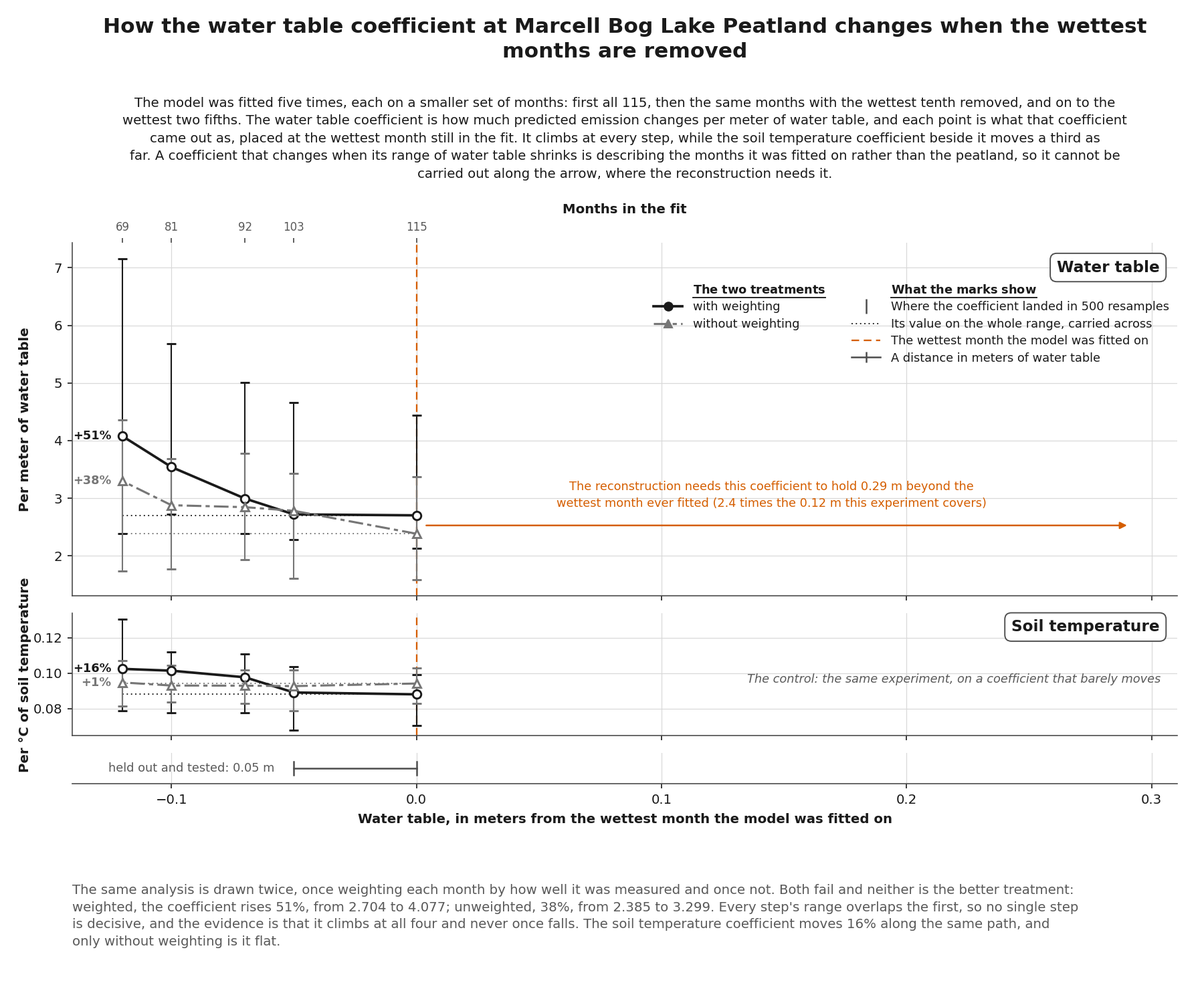
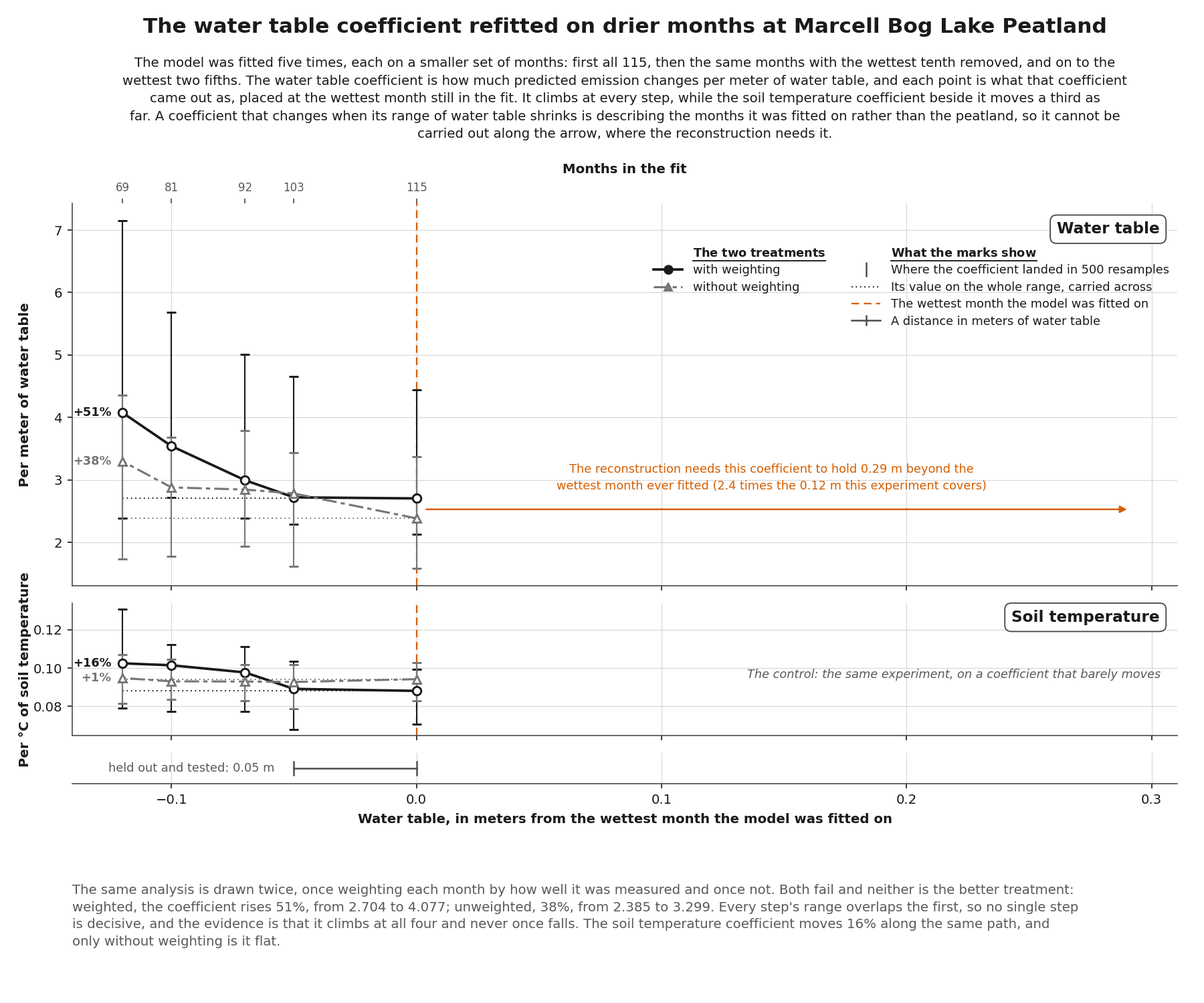
Key every mark and settle the availability palette

diff --git a/src/study/figures.py b/src/study/figures.py
@@ -1064,8 +1064,8 @@ def measurements_used(panels: dict[str, pd.DataFrame]) -> Figure:
 
 
 STABILITY_TEXT = ps.FigureText(
-    title=("How the water table coefficient at Marcell Bog Lake Peatland changes "
-           "when the wettest months are removed"),
+    title=("The water table coefficient refitted on drier months at "
+           "Marcell Bog Lake Peatland"),
     subtitle=(
         "The model was fitted five times, each on a smaller set of months: first "
         "all 115, then the same months with the wettest tenth removed, and on to "
@@ -1345,7 +1345,7 @@ def coefficient_stability(paths: dict[str, pd.DataFrame], required: float,
 # --------------------------------------------------------------------------
 
 AVAILABILITY_TEXT = ps.FigureText(
-    title=("Which months each measurement and each part of the study cover at "
+    title=("Which months each measurement and each analysis cover at "
            "Marcell Bog Lake Peatland"),
     subtitle=(
         "Each row in the upper block is one measurement, and the bar covers the "
@@ -1356,24 +1356,24 @@ AVAILABILITY_TEXT = ps.FigureText(
     ),
     description=(
         "Air temperature and precipitation stop at the end of 2019, which ends the "
-        "fitting window and discards 25 months of methane the tower recorded and "
-        "the study could not use. The model is projected back over the span where "
-        "the measurements exist and the flux does not. Forecasting cannot begin "
-        "until "
-        "48 months of flux have accumulated, which took 62 calendar months for "
-        "methane because of the gaps in 2013 and 2014, and it ends in 2020 where "
-        "the models needing a measurement run out, though the benchmarks alone "
-        "reach 2021 and 2024. The two hollow marks are decisions rather than "
-        "absences: the water table is set aside from January 2020 because the "
-        "gauge changed, and two months of 2019 on evidence of instrument error."
+        "months the model could learn from and discards 25 months of methane the "
+        "tower recorded. Forecasts cannot be checked until 48 months of flux have "
+        "accumulated, which took 62 calendar months for methane because of the "
+        "gaps in 2013 and 2014, and the check ends in 2020 where the models that "
+        "use a measurement run out, though the seasonal benchmarks reach 2021 and "
+        "2024. Blue marks the range the model was fitted on, as it does across "
+        "this set. The two hollow marks are decisions rather than absences: the "
+        "water table is set aside from January 2020 for a gauge change, and two "
+        "months of 2019 on evidence of instrument error."
     ),
 )
 
-BLOCK_HEADINGS = ("What was measured, as monthly means", "Fitted and projected",
-                  "Tested forecasts on")
-PRESENT_LABEL = "months measured"
+BLOCK_HEADINGS = ("What was measured, as monthly means", "Months the model used",
+                  "Months the forecasts were checked on")
+PRESENT_LABEL = "months covered"
 MISSING_LABEL = "a month missing"
 ASIDE_LABEL = "set aside by the study"
+FITTED_RANGE_LABEL = "the range the model was fitted on"
 TRAINING_LABEL = "48 months of training first"
 
 #: Bar geometry in row units. The bars are the figure, so they are heavy; the notch
@@ -1462,20 +1462,26 @@ def _draw_availability_row(ax, y: float, row: dict) -> None:
 
 
 #: The span that defines what "inside the fitted range" means everywhere else in
-#: the study, drawn in the hue that carries it. The reconstruction beside it stays
-#: neutral: 117 of its 230 months lie outside that range and 113 inside, so one
-#: hue across the whole bar would assert a verdict the study measured as mixed.
-WINDOW_FILL = "#767676"
+#: the study, drawn in the hue that carries it. The span beside it stays neutral:
+#: 117 of its 230 months lie outside that range and 113 inside, so one hue across
+#: the whole bar would assert a verdict the study measured as mixed. Every other
+#: bar on the panel takes the same neutral, since a second gray would draw a
+#: distinction the blocks already carry by position.
 
 
 def _draw_window_row(ax, y: float, row: dict) -> None:
     """A window: the months it used, and any lead spent on training first."""
+    if row.get("note"):
+        # The qualifier that would not fit the gutter, set in the clear ground
+        # beside the bar it belongs to.
+        ax.text(_position(row["last"]) + 0.5, y, row["note"], ha="left", va="center",
+                fontsize=ps.ANNOTATION_SIZE, style="italic", color=ps.MUTED, zorder=4)
     if row.get("lead"):
         first, last = row["lead"]
         ax.plot([_position(first), _position(last)], [y, y], color=ps.MUTED,
                 linewidth=1.1, zorder=3)
     _draw_bar(ax, y, row["first"], row["last"],
-              facecolor=ps.INSIDE if row.get("support") else WINDOW_FILL,
+              facecolor=ps.INSIDE if row.get("support") else ps.MEASURED,
               edgecolor="none", zorder=3)
 
 
@@ -1489,7 +1495,7 @@ HEADING_OFFSET = 1.15
 #: Room at the left for the row names and at the top for the key, in pixels. Taken
 #: out of the drawing rectangle rather than out of the canvas, so the title and the
 #: description stay centered on the page rather than on the bars.
-NAME_GUTTER_PX = 300
+NAME_GUTTER_PX = 330
 KEY_BAND_PX = 40
 
 
@@ -1575,6 +1581,7 @@ def covariate_availability(rows: list[dict],
         (Line2D([], [], color=ps.MEASURED, linestyle="none", marker="|", markersize=10,
                 markeredgewidth=1.4), MISSING_LABEL),
         (Patch(facecolor="white", edgecolor=ps.OUTSIDE, linewidth=1.2), ASIDE_LABEL),
+        (Patch(facecolor=ps.INSIDE, edgecolor="none"), FITTED_RANGE_LABEL),
     ]
     ps.legend(ax, handles=[h for h, _ in entries], labels=[label for _, label in entries],
               loc="lower right", bbox_to_anchor=(1.0, 1.005), ncol=len(entries),

diff --git a/tests/test_availability_figure.py b/tests/test_availability_figure.py
@@ -28,14 +28,15 @@ ASIDE = {"Water table": (
 )}
 
 DREW_ON = [
-    {"name": "Fitted the model", "first": pd.Period("2009-04", freq="M"),
+    {"name": "Learned from", "first": pd.Period("2009-04", freq="M"),
      "last": pd.Period("2019-12", freq="M"), "months": 115, "lead": None,
      "support": True},
-    {"name": "Projected it back", "first": pd.Period("1990-01", freq="M"),
-     "last": pd.Period("2009-03", freq="M"), "months": 230, "lead": None},
+    {"name": "Estimated backward", "first": pd.Period("1990-01", freq="M"),
+     "last": pd.Period("2009-03", freq="M"), "months": 230, "lead": None,
+     "note": "(no flux to check against)"},
 ]
 SCORED = [
-    {"name": "Methane", "first": pd.Period("2014-06", freq="M"),
+    {"name": "Methane forecasts", "first": pd.Period("2014-06", freq="M"),
      "last": pd.Period("2020-12", freq="M"), "months": 71,
      "lead": (pd.Period("2009-04", freq="M"), pd.Period("2014-06", freq="M"))},
 ]
@@ -161,10 +162,29 @@ def test_the_reason_a_month_was_set_aside_is_written_beside_it():
     ps.plt.close(fig)
 
 
-def test_the_key_carries_three_marks_and_no_reasons():
+def test_the_key_covers_every_mark_on_the_panel_and_carries_no_reasons():
+    """Both blocks are keyed from one place: the lower block holds two fills and
+    one of them is a hue that means something across the whole set."""
     fig = figure()
     labels = [text.get_text() for text in fig.axes[0].get_legend().get_texts()]
-    assert labels == [figures.PRESENT_LABEL, figures.MISSING_LABEL, figures.ASIDE_LABEL]
+    assert labels == [figures.PRESENT_LABEL, figures.MISSING_LABEL,
+                      figures.ASIDE_LABEL, figures.FITTED_RANGE_LABEL]
+    ps.plt.close(fig)
+
+
+def test_the_blue_convention_is_stated_somewhere_on_the_figure():
+    """A reader meeting this figure first has no other way to know what it means."""
+    assert "Blue marks the range the model was fitted on" in \
+        figures.AVAILABILITY_TEXT.description
+
+
+def test_one_neutral_serves_every_bar_that_is_not_the_fitted_range():
+    """Two grays would draw a distinction the blocks already carry by position."""
+    from matplotlib.colors import to_rgb
+
+    fig = figure()
+    fills = {p.get_facecolor()[:3] for p in fig.axes[0].patches}
+    assert fills == {to_rgb(ps.MEASURED), to_rgb(ps.INSIDE), (1.0, 1.0, 1.0)}
     ps.plt.close(fig)
 
 
@@ -222,7 +242,7 @@ def test_the_description_says_what_the_window_cost_and_not_only_its_cause():
 
 def test_the_description_names_the_benchmark_tail_without_drawing_it():
     """A fourth mark for a clause is not worth it."""
-    assert "benchmarks alone reach" in figures.AVAILABILITY_TEXT.description
+    assert "seasonal benchmarks reach 2021 and 2024" in figures.AVAILABILITY_TEXT.description
 
 
 def test_the_subtitle_says_the_windows_were_chosen():
@@ -253,8 +273,17 @@ def test_no_counts_are_drawn_beside_the_bars():
 def test_no_term_appears_as_a_row_name_without_being_explained():
     """Reconstruction, fitting window and scored over were all internal."""
     said = " ".join([row["name"] for row in WINDOWS] + list(figures.BLOCK_HEADINGS)).lower()
-    for term in ("reconstruction", "fitting window", "scored"):
+    for term in ("reconstruction", "fitting window", "scored", "projected"):
         assert term not in said
+
+
+def test_a_qualifier_too_long_for_the_gutter_is_set_beside_its_own_bar():
+    """Row names were measured against the gutter rather than assumed; the one
+    that did not fit sits in the clear ground to the right of its bar."""
+    fig = figure()
+    said = [note.get_text() for note in fig.axes[0].texts]
+    assert "(no flux to check against)" in said
+    ps.plt.close(fig)
 
 
 def test_the_title_names_the_site():

diff --git a/scripts/make_figures.py b/scripts/make_figures.py
@@ -185,10 +185,12 @@ def main() -> None:
         "Soil temperature at 10 cm (°F)": cov["soil_temp_f"],
         "Air temperature (°F)": cov["atm_temp_f"],
         "Precipitation (inches)": cov["precip_in"],
-        "Water table (m above sea level)": cov[features.WATER_TABLE],
+        # Elevation, not depth: the values run 413.07 to 413.75 m above sea level,
+        # and a peatland reader meeting "water table" expects depth below surface.
+        "Water table elevation (m)": cov[features.WATER_TABLE],
     }
     recorded = cov[features.WATER_TABLE].dropna().index
-    set_aside = {"Water table (m above sea level)": (
+    set_aside = {"Water table elevation (m)": (
         (pd.PeriodIndex([m for m in recorded if m in windows.WATER_TABLE_ARTIFACTS],
                         freq="M"), "instrument error"),
         (pd.PeriodIndex([m for m in recorded if m >= covariates.WATER_TABLE_DATUM_BREAK],
@@ -197,12 +199,12 @@ def main() -> None:
     measured_rows = figures.availability_rows(measured, set_aside)
 
     drew_on = [
-        {"name": "Fitted the model", "first": built["fit"].min(),
+        {"name": "Learned from", "first": built["fit"].min(),
          "last": built["fit"].max(), "months": len(built["fit"]), "lead": None,
          "support": True},
-        {"name": "Projected it back", "first": built["reconstruction"].min(),
+        {"name": "Estimated backward", "first": built["reconstruction"].min(),
          "last": built["reconstruction"].max(), "months": len(built["reconstruction"]),
-         "lead": None},
+         "lead": None, "note": "(no flux to check against)"},
     ]
     scored = []
     for key, gas, _ in figures.GAS_PANEL:
@@ -213,7 +215,7 @@ def main() -> None:
         flux = measured[
             "Carbon dioxide ($\\mu$mol m$^{-2}$ s$^{-1}$)" if key == "carbon_dioxide"
             else "Methane (nmol m$^{-2}$ s$^{-1}$)"].dropna().index
-        scored.append({"name": gas, "first": months.min(), "last": months.max(),
+        scored.append({"name": f"{gas} forecasts", "first": months.min(), "last": months.max(),
                        "months": months.nunique(), "lead": (flux.min(), months.min())})
 
     # No guides: ordered by where each record ends, the bars step inward and stop

diff --git a/src/study/plotstyle.py b/src/study/plotstyle.py
@@ -80,14 +80,15 @@ OUTSIDE = "#D55E00"
 #: too close to it, and 17.5 from the gridlines so a bar cannot merge with one.
 DATE_SHARE = "#A9A9A9"
 
-#: The measurement rows on the availability figure. Reddish purple, at the
-#: lightness the panel requires rather than at Okabe-Ito's: the set-aside outlines
-#: are drawn in `OUTSIDE` on top of these bars, and #CC79A7 measures **0.9 from
-#: `OUTSIDE` under tritanopia**, where this clears it by 34.3 and by 0.136 in
-#: relative luminance. Same hue, 330 degrees, taken down in lightness until the
-#: outline survives. Softer than the near-black it replaces without receding to
-#: the gray the window rows use, which it clears by 13.5.
-MEASURED = "#7B3F5E"
+#: Every bar on the availability figure that is not the fitted range. Neutral, so
+#: the only colored marks on that panel are the two that carry meaning: orange for
+#: months a decision discarded, blue for the range the model was fitted on. It
+#: clears the orange by **54.5 under the worst simulated deficiency and 0.147 in
+#: relative luminance**, which matters because the discard outlines are drawn on
+#: top of these bars. Reddish purple was measured and set aside for that reason:
+#: Okabe-Ito's #CC79A7 sits **0.9 from the orange under tritanopia**, and a darker
+#: plum that cleared it added a fifth hue to the set for rows that are context.
+MEASURED = "#4D4D4D"
 
 #: The site and its tower, on the site map only. Okabe-Ito yellow, measured
 #: against the imagery it sits on: 41.3 from the light peat beside the tower and

diff --git a/src/study/sitemap.py b/src/study/sitemap.py
@@ -62,10 +62,10 @@ SITE_MARKER = dict(marker="*", markersize=15, markerfacecolor=ps.SITE,
 
 
 SITEMAP_TEXT = ps.FigureText(
-    title="The flux tower at Marcell Bog Lake Peatland, Minnesota, and the directions it measures",
+    title="The flux tower and the wind directions it measures at Marcell Bog Lake Peatland",
     subtitle=(
-        "Flux is discarded from 30 to 200 degrees, where upland forest lies, which "
-        "removes 40% of the record"
+        "The site is in north-central Minnesota. Flux is discarded from 30 to 200 "
+        "degrees, where upland forest lies, which removes 40% of the record"
     ),
     description=(
         "Panel a is the peatland around the tower, with the wetland polygon the "

diff --git a/figures/README_fragments.md b/figures/README_fragments.md
@@ -6,11 +6,11 @@
 
 Reconstruction means estimating methane emissions for years before measurements began in 2009, from relationships fitted on 2009 to 2019. Each point is one month's mean. The shaded band marks the 115 months the fit used. The water table fell through the 2000s, so the fit window opens after the wetter state has gone, sampling only the drier conditions. The dashed lines mark the highest and lowest water table they reached. Points beyond them lie outside anything the model has seen: 107 above in runs lasting years, six below by under 0.06 m. Those lines sit 0.33 m apart, and the reconstruction runs 0.29 m above the upper one: the excursion is nearly as wide as the whole fitted span. It stops at 2019 because precipitation, a covariate it needs, ends there.
 
-### The flux tower at Marcell Bog Lake Peatland, Minnesota, and the directions it measures
+### The flux tower and the wind directions it measures at Marcell Bog Lake Peatland
 
-![The flux tower at Marcell Bog Lake Peatland, Minnesota, and the directions it measures](figures/site_overview.png)
+![The flux tower and the wind directions it measures at Marcell Bog Lake Peatland](figures/site_overview.png)
 
-**Flux is discarded from 30 to 200 degrees, where upland forest lies, which removes 40% of the record**
+**The site is in north-central Minnesota. Flux is discarded from 30 to 200 degrees, where upland forest lies, which removes 40% of the record**
 
 Panel a is the peatland around the tower, with the wetland polygon the National Wetlands Inventory maps there and a circle at the 200 m over which the site reports its surface uniform. Panel b places the site among the FLUXNET-CH4 network: it is not one of them, so no community gap-filled product exists for it. Panel c is how often the wind blew from each direction over 2009 to 2019, the years the model was fitted on. Flux is discarded from 30 to 200 degrees, where the tower and the upland forest lie. That sector holds 45% of the half-hours that carry a wind direction and 40% of the whole record, and the published product holds no retained flux from it at all.
 
@@ -46,18 +46,18 @@ The predictions follow the seasonal cycle, rising and falling in step with the m
 
 Two marks stand where a number would mean nothing. The date question does not apply to the flux's own past values, which are not measurements taken at the site. Last month's flux is unavailable to a model forecasting three or more months ahead. Where a grey bar does stand, it is what three seasonal terms account for: 95% of soil and air temperature, and about 5% of the water table. The sharpest case is carbon dioxide three months ahead, where the models chose none of the four measurements in any rebuild and kept only the flux's own value from a year earlier.
 
-### How the water table coefficient at Marcell Bog Lake Peatland changes when the wettest months are removed
+### The water table coefficient refitted on drier months at Marcell Bog Lake Peatland
 
-![How the water table coefficient at Marcell Bog Lake Peatland changes when the wettest months are removed](figures/coefficient_stability.png)
+![The water table coefficient refitted on drier months at Marcell Bog Lake Peatland](figures/coefficient_stability.png)
 
 **The model was fitted five times, each on a smaller set of months: first all 115, then the same months with the wettest tenth removed, and on to the wettest two fifths. The water table coefficient is how much predicted emission changes per meter of water table, and each point is what that coefficient came out as, placed at the wettest month still in the fit. It climbs at every step, while the soil temperature coefficient beside it moves a third as far. A coefficient that changes when its range of water table shrinks is describing the months it was fitted on rather than the peatland, so it cannot be carried out along the arrow, where the reconstruction needs it.**
 
 The same analysis is drawn twice, once weighting each month by how well it was measured and once not. Both fail and neither is the better treatment: weighted, the coefficient rises 51%, from 2.704 to 4.077; unweighted, 38%, from 2.385 to 3.299. Every step's range overlaps the first, so no single step is decisive, and the evidence is that it climbs at all four and never once falls. The soil temperature coefficient moves 16% along the same path, and only without weighting is it flat.
 
-### Which months each measurement and each part of the study cover at Marcell Bog Lake Peatland
+### Which months each measurement and each analysis cover at Marcell Bog Lake Peatland
 
-![Which months each measurement and each part of the study cover at Marcell Bog Lake Peatland](figures/covariate_availability.png)
+![Which months each measurement and each analysis cover at Marcell Bog Lake Peatland](figures/covariate_availability.png)
 
 **Each row in the upper block is one measurement, and the bar covers the months it exists, longest record at the top. The rows below are the three pieces of work and the months each drew on. Those spans were chosen from what was available rather than being facts about the site. The study's boundaries fall where the shortest records end.**
 
-Air temperature and precipitation stop at the end of 2019, which ends the fitting window and discards 25 months of methane the tower recorded and the study could not use. The model is projected back over the span where the measurements exist and the flux does not. Forecasting cannot begin until 48 months of flux have accumulated, which took 62 calendar months for methane because of the gaps in 2013 and 2014, and it ends in 2020 where the models needing a measurement run out, though the benchmarks alone reach 2021 and 2024. The two hollow marks are decisions rather than absences: the water table is set aside from January 2020 because the gauge changed, and two months of 2019 on evidence of instrument error.
+Air temperature and precipitation stop at the end of 2019, which ends the months the model could learn from and discards 25 months of methane the tower recorded. Forecasts cannot be checked until 48 months of flux have accumulated, which took 62 calendar months for methane because of the gaps in 2013 and 2014, and the check ends in 2020 where the models that use a measurement run out, though the seasonal benchmarks reach 2021 and 2024. Blue marks the range the model was fitted on, as it does across this set. The two hollow marks are decisions rather than absences: the water table is set aside from January 2020 for a gauge change, and two months of 2019 on evidence of instrument error.

diff --git a/notes/study.md b/notes/study.md
@@ -2071,8 +2071,21 @@ read as choices, and the largest ink on the panel never gets drawn.
 **Row names carry their units, and no row name carries a term the panel does not
 explain.** Each row is a monthly mean, said once in the block heading rather than
 six times in the rows. "Reconstruction", "fitting window" and "scored over" are
-gone: the rows now read *fitted the model*, *projected it back*, and under
-*tested forecasts on*, the two gas names.
+gone, and the verb phrases that replaced them are gone too: the lower rows are now
+noun phrases matching the upper block, *learned from* and *estimated backward*
+under **months the model used**, and *methane forecasts* and *carbon dioxide
+forecasts* under **months the forecasts were checked on**.
+
+**Every row name was measured against the gutter rather than assumed.** At 9.5 pt
+the gutter holds 330 px. *Methane forecasts checked against measurements* needs
+503 and *estimated backward (no flux to check against)* needs 459, so the shared
+part of the first moved into the block heading and the qualifier of the second
+moved to the clear ground beside its own bar.
+
+**The water table row says elevation.** Its values run 413.07 to 413.75 m above
+sea level, and a reader who works on peatlands meets "water table" expecting a
+depth below the surface. The row reads *water table elevation (m)*: the unit was
+right and the word was missing.
 
 **Four kinds of month, three marks.** Measured is a filled bar. Missing from an
 otherwise unbroken run is a hole in the bar, with a tick under it because one
@@ -2121,7 +2134,7 @@ rather than a mark on top of one.
 ### The palette question on this figure, and what it should be
 
 The figure was first drawn in black and gray alone, which left it the only one of
-eight with no connection to the palette the rest of the set uses. Three decisions
+eight with no connection to the palette the rest of the set uses. Four decisions
 came out of looking at that.
 
 **The measured bars stay neutral.** They are a record of what exists rather than
@@ -2129,6 +2142,17 @@ a result, and the upper block's distinction is exists, missing, discarded — no
 retained against discarded. `INSIDE` for existence would claim a decision was
 made where none was. This is the same reasoning that made the date share
 achromatic on the measurements-used figure.
+
+**Neutral, but not black.** Near-black made rows that are context the loudest
+thing on the page. Three versions were built and compared at full size — black,
+reddish purple, and a mid gray — and the gray was chosen, at `#4D4D4D`. It clears
+the discard orange, which is drawn on top of these bars, by **54.5 under the
+worst simulated deficiency and 0.147 in relative luminance**. Reddish purple was
+measured and set aside twice over: Okabe-Ito's `#CC79A7` sits **0.9 from that
+orange under tritanopia**, where the outlines would vanish, and the darker plum
+that cleared it (`#7B3F5E`, 34.3) added a fifth hue to the set for rows that are
+context rather than subject. With gray, the only colored marks on the panel are
+the two that carry meaning.
 
 **The set-aside marks take `OUTSIDE`.** That hue already means *outside, or
 discarded* across the reconstruction figures and the site map, and these are the
@@ -2154,6 +2178,21 @@ identical. The distinction a reader needs is carried by the row name and the
 group heading, and the hue is a tie to the rest of the set rather than the thing
 that makes the row legible. `FITTED` was not considered: the convention scopes it
 to the two forecast figures, and a scoring window is not a range across models.
+
+**One neutral for every bar that is not the fitted range.** The lower block was
+briefly drawn in a second, lighter gray. Nothing distinguished those two grays
+except that they were drawn at different times, and the blocks are already
+separated by position and heading, so the second gray went. Hatching was
+considered for the same purpose and rejected: at this bar height across 35 years
+it aliases, which is why it was turned down on the reconstruction strip.
+
+**The key covers every mark from one place.** It carried three marks in the upper
+block and nothing in the lower, where a reader met a blue bar and two gray ones
+with no key at all. It now runs four entries across one line, and the first is
+worded *months covered* rather than *months measured* so it serves both blocks;
+what each block's bars are is said by its heading. The blue's convention — that it
+marks the range the model was fitted on, here and across the set — is a sentence
+rather than a label, so it sits in the description, which is on the canvas.
 
 **The lower block is two groups, not four rows of one thing.** Reconstruction and
 fitting window are spans of months the study drew on; the two forecast rows are
@@ -2314,6 +2353,13 @@ refuse.
 whole range" was doing the work the subtitle should do. The axes now read "Per meter of
 water table" and "Per °C of soil temperature", and what a coefficient is belongs
 to the subtitle.
+
+**The title was distilled with the rest.** Every title in the set now reads as one
+clause naming what is plotted and the site: this one became *The water table
+coefficient refitted on drier months at Marcell Bog Lake Peatland*, and the site
+figure's became *The flux tower and the wind directions it measures at Marcell Bog
+Lake Peatland*, with ", Minnesota" moving into its subtitle. All eight fit on one
+line.
 
 **A title that outran the canvas.** This is the longest title in the set and it
 overflowed the drawing area. `plotstyle.wrap_title` now wraps a title and sizes
